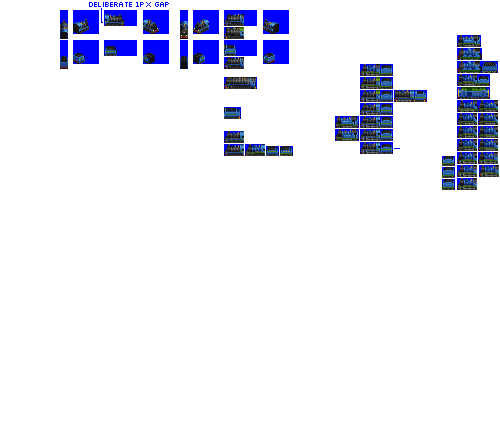
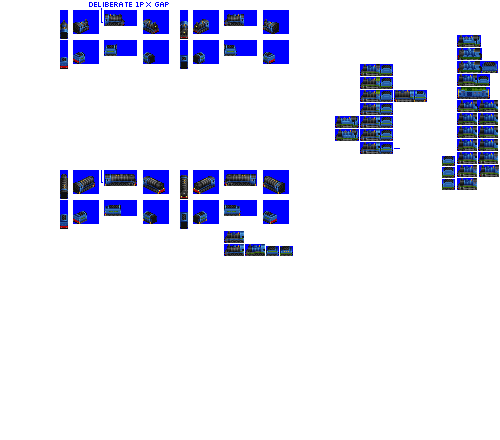
Change: sprites complete for Diablo

diff --git a/src/vehicles/diablo.py b/src/vehicles/diablo.py
@@ -15,7 +15,7 @@ def main(roster_id):
                             fixed_run_cost_points=150, # small cost bonus for balance against same gen Haar
                             gen=3,
                             intro_date_offset=4, # introduce a bit later
-                            sprites_complete=False)
+                            sprites_complete=True)
 
     consist.add_unit(type=SteamEngineUnit,
                      weight=70,
